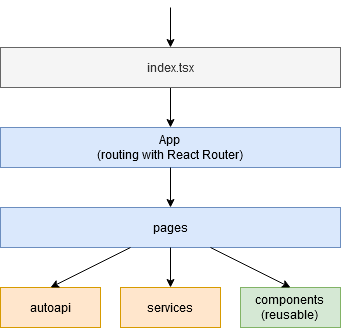
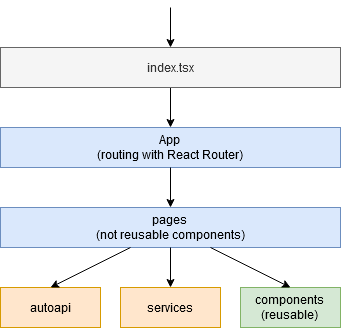
update docs

Changed region(s): [[0.2639, 0.6402, 0.7331, 0.7317]]

diff --git a/readme.md b/readme.md
@@ -1,23 +1,44 @@
 # Sample Modular Monolith application without fluff/hype(*) but with tests
 
-Yet another sample .net core application. But this one aims to be a little bit different than the rest. Instead of focusing on showing some fancy libraries and patterns on non-realistic simplified examples, this one focus on delivering a fully working application to production. 
+Yet another sample .net core application. But this one aims to be a little bit different than the rest. Instead of focusing on showing some fancy libraries and patterns on non-realistic simplified examples, this one focus on delivering a fully working application with high quality. 
 
-1. [Overview](#Overview)
-2. [Architecture decision record](#ADR)
-3. [Layer : Presentation.React](#React)
-4. [Layer : Presentation.API](#API)
-5. [Module comparison](#ModuleComparison)
-6. [Communication between modules](#CommunicationBetweenModules)
-7. [Module : UserManagement](#UserManagement)
-8. [Module : TestCreation](#TestCreation)
-9. [Module : TestConducting](#TestConducting)
-10. [Module : TestResults](#TestResults)
-11. [Working demo](#DEMO)
-12. [ToDo](#TODO)
+1. [How to run](#HowToRun)
+2. [Overview](#Overview)
+3. [Architecture decision record](#ADR)
+4. [Layer : Presentation.React](#React)
+5. [Layer : Presentation.API](#API)
+6. [Module comparison](#ModuleComparison)
+7. [Communication between modules](#CommunicationBetweenModules)
+8. [Module : UserManagement](#UserManagement)
+9. [Module : TestCreation](#TestCreation)
+10. [Module : TestConducting](#TestConducting)
+11. [Module : TestResults](#TestResults)
+12. [Working demo](#DEMO)
+13. [ToDo](#TODO)
 
+## <a name="Overview"></a> 1. How to run
 
+- external dependencies (postgres, rabbitmq, elasticsearch, kibana)
+``docker-compose up``
+- backend
+``green arrow in VS``
+- frontend
+``cd TestMe.Presentation.React/ClientApp/ && npm start``
 
-## <a name="Overview"></a> 1. Overview
+| component | run | endpoint
+|---- | ----| --- 
+| .net core | from VS | https://localhost:44357
+| swagger   | from VS |  https://localhost:44357/swagger
+| postgres      | docker-compose up | n/a
+| rabbitmq      | docker-compose up | http://localhost:15672/ 
+| elasticsearch | docker-compose up | n/a
+| kibana        | docker-compose up | http://localhost:5601 
+| influxdb | n/a | n/a 
+| react | npm start | http://localhost:3000/
+| jest | npm test | n/a
+| storybook | npm run storybook | http://localhost:9009
+
+## <a name="Overview"></a> 2. Overview
 
 - top architecture: modular monolith aka vertical slice architecture
 - backend: asp.net core, entity framework core, postgresql
@@ -25,7 +46,7 @@ Yet another sample .net core application. But this one aims to be a little bit d
 - frontend: react + typescript
 - communication between modules : RabbitMQ or in memory bus
 - enabled non-null reference types 
-- every module in separate transaction scope
+- every module in separate transaction scope, eventual consistency between modules
 - mapping between c# dtos is done by [MappingGenerator](https://github.com/cezarypiatek/MappingGenerator)
 - typed api client for api calls is auto-generated with [Typewriter](https://github.com/frhagn/Typewriter)
 
@@ -34,21 +55,26 @@ Yet another sample .net core application. But this one aims to be a little bit d
 
 
 
-## <a name="ADR"></a> 2. Architecture decision record
+## <a name="ADR"></a> 3. Architecture decision record
 
 1) Use async/await or not
 2) Why not to use AutoMapper
 
 
-## <a name="React"></a> 3. Layer : Presentation.React
-- with restrictive Content Security Policy set(no inline css or js, no eval)
-- CSS Modules
-- persisted component state in localstorage
+## <a name="React"></a> 4. Layer : Presentation.React
+- with restrictive Content Security Policy set (no inline css or js, no eval)
+- CSS Modules (scoping css per component)
+- every page implemented in two ways: 
+    - class-components with local state 
+    - functionals-components with redux and hooks
+- component state persisted in localstorage
 - props dependency injection used to be able to display stateful components in [Storybook](https://github.com/storybookjs/storybook)
+- files grouped by features/routes and not by file type 
+- TypeScript all the way 
 
 ![projects_dependencies](docs/Presentation.React.png)
 
-## <a name="API"></a> 4. Layer : Presentation.API
+## <a name="API"></a> 5. Layer : Presentation.API
 - integration tests for happy paths backed on sqllite in memory with the possibility to switch to postgresql if needed for debuging
 
 #### Endpoints
@@ -93,7 +119,7 @@ Async - Req/s                       |   |  |  |  |
 
 
 
-## <a name="ModuleComparison"></a> 5. Module comparison
+## <a name="ModuleComparison"></a> 6. Module comparison
 
 Description                 | UserManagement                      | TestCreation
 ----------------------------|-------------------------------------|--------------
@@ -103,13 +129,13 @@ data access layer           | Entity Framework                    | Repository +
 exceptional situations      | DomainException                     | Result + DomainException
 pagination                  | cursor based                        | offset based
 
-## <a name="CommunicationBetweenModules"></a> 6. Communication between modules
+## <a name="CommunicationBetweenModules"></a> 7. Communication between modules
 - reliable communication between modules without using a distributed transaction
 - two available implementations, RabbitMQ based for production use and in memory for tests  
 
 ![projects_dependencies](docs/CommunicationBetweenModules.png)
 
-## <a name="UserManagement"></a> 7. Module : UserManagement
+## <a name="UserManagement"></a> 8. Module : UserManagement
 - domain model: anemic
 - architecture : layers + transaction script
 - data driven unit tests and architectural tests
@@ -122,7 +148,7 @@ pagination                  | cursor based                        | offset based
 
 
 
-## <a name="TestCreation"></a> 8. Module : TestCreation
+## <a name="TestCreation"></a> 9. Module : TestCreation
 - domain model: rich
 - architecture : clean architecture + minimal CQRS
 - data driven unit tests and architectural tests
@@ -138,31 +164,30 @@ pagination                  | cursor based                        | offset based
 
 
 
-## <a name="TestConducting"></a> 9. Module : TestConducting
+## <a name="TestConducting"></a> 10. Module : TestConducting
 not available yet
 
 
 
 
-## <a name="TestResults"></a> 10. Module : TestResults
+## <a name="TestResults"></a> 11. Module : TestResults
 not available yet
 
 
 
 
 
-## <a name="DEMO"></a> 11. Working demo
+## <a name="DEMO"></a> 12. Working demo
 ![projects_dependencies](docs/TestMe.ResolveOptimisticConcurrencyConflict.gif)
 
 
 
 
-## <a name="TODO"></a> 12. ToDo
+## <a name="TODO"></a> 13. ToDo
 - setup development environment in docker (postgresql, TICK stack, RabbitMQ, Elastic stack)
 - introduce Architecture decision record (ADR)
 - frontend : automated tests for frontend (maybe Cypress?)
 - frontend : use immerjs to create next immutable state instead of home made solution
-- frontend : add alternative version of autoapi based on react hooks
 - backend : finish /Tests endpoints
 - backend : deal with poisonous integration events (dead letter queue)
 - backend : add batch publishing of events on RabbitMQ
